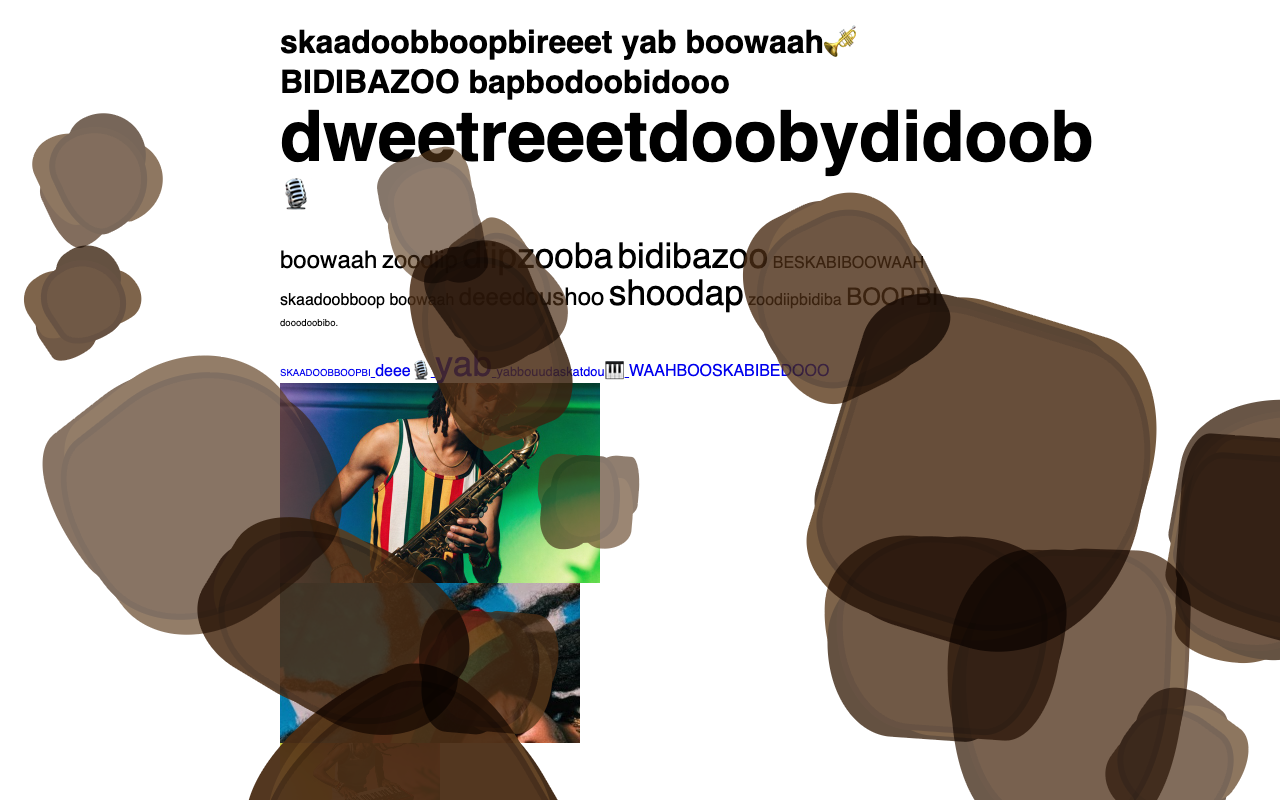
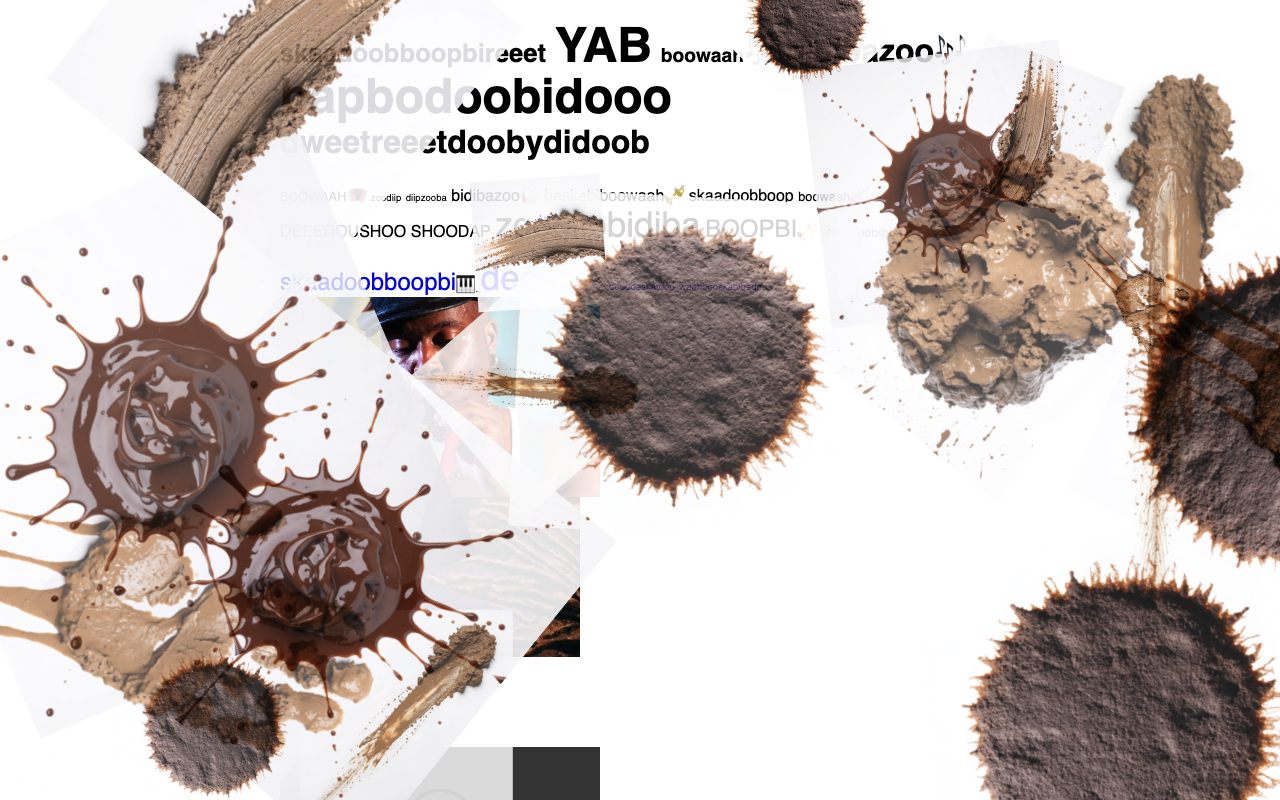
Stains: real photographic mud/poo splatter PNGs (was CSS blobs)
- 7 realistic brown mud/poo/coffee splatter images generated via recraft_v4_1
  on white bg; bundled in assets/stains/, overlaid as scattered <img> with
  mix-blend-mode:multiply so the white vanishes and only the stain shows.
- New stains-manifest.js (generated), wired into manifest + web_accessible.
- Refs folder moved out of assets/ (was going to ship + contained a screenshot).
- 35/35 tests green (added stain-integrity test).

diff --git a/src/content.js b/src/content.js
@@ -107,32 +107,35 @@
     }
   }
 
-  // ---- brown stains (top frame only; a fixed overlay) ----
+  // ---- brown stains (top frame only): real splatter PNGs scattered around ----
+  function stainURL(file) {
+    try { return chrome.runtime.getURL("assets/stains/" + file); }
+    catch (_e) { return "assets/stains/" + file; }
+  }
   function addStains() {
     if (!isTop) return;
     if (document.getElementById("scaternet-stains")) return;
+    const list = globalThis.ScaternetStainsList || [];
     const host = document.body || document.documentElement;
-    if (!host) return;
+    if (!host || list.length === 0) return;
     const c = document.createElement("div");
     c.id = "scaternet-stains";
-    const count = 12 + Math.floor(Math.random() * 10);
-    const rnd = (lo, hi) => (lo + Math.random() * (hi - lo)).toFixed(0);
+    const count = 14 + Math.floor(Math.random() * 12);
     for (let i = 0; i < count; i++) {
-      const s = document.createElement("div");
-      s.className = "scaternet-stain";
-      const size = 70 + Math.random() * 240;
-      s.style.width = size.toFixed(0) + "px";
-      s.style.height = (size * (0.6 + Math.random() * 0.7)).toFixed(0) + "px";
-      s.style.left = (Math.random() * 100).toFixed(1) + "vw";
-      s.style.top = (Math.random() * 100).toFixed(1) + "vh";
-      s.style.transform = "rotate(" + (Math.random() * 360).toFixed(0) + "deg)";
-      // Solid, not a faint wash — real mud.
-      s.style.opacity = (0.6 + Math.random() * 0.35).toFixed(2);
-      // Per-stain organic blob outline so no two mud splats look alike.
-      s.style.borderRadius =
-        rnd(30, 70) + "% " + rnd(30, 70) + "% " + rnd(30, 70) + "% " + rnd(30, 70) + "% / " +
-        rnd(30, 70) + "% " + rnd(30, 70) + "% " + rnd(30, 70) + "% " + rnd(30, 70) + "%";
-      c.appendChild(s);
+      const file = list[(Math.random() * list.length) | 0];
+      const img = document.createElement("img");
+      img.className = "scaternet-stain";
+      img.setAttribute("alt", "");
+      img.src = stainURL(file); // set before insertion so the observer never sees a swap-eligible img
+      const w = 130 + Math.random() * 380;
+      img.style.width = w.toFixed(0) + "px";
+      img.style.left = (Math.random() * 100).toFixed(1) + "vw";
+      img.style.top = (Math.random() * 100).toFixed(1) + "vh";
+      const rot = (Math.random() * 360).toFixed(0);
+      const flip = Math.random() < 0.5 ? -1 : 1;
+      img.style.transform = "translate(-40%,-40%) rotate(" + rot + "deg) scaleX(" + flip + ")";
+      img.style.opacity = (0.7 + Math.random() * 0.3).toFixed(2);
+      c.appendChild(img);
     }
     host.appendChild(c);
   }

diff --git a/src/content.css b/src/content.css
@@ -20,7 +20,7 @@ img[data-scaternet-swapped="1"] {
 .scat-size-lg { font-size: 1.5em !important; }
 .scat-size-xl { font-size: 2.2em !important; }
 
-/* --- Brown stains: solid mud spreads splattered all over the page --- */
+/* --- Brown stains: real photographic mud/poo splatter PNGs scattered around --- */
 #scaternet-stains {
   position: fixed;
   inset: 0;
@@ -28,17 +28,10 @@ img[data-scaternet-swapped="1"] {
   pointer-events: none;
   overflow: hidden;
 }
-#scaternet-stains .scaternet-stain {
+#scaternet-stains img.scaternet-stain {
   position: absolute;
-  background-color: #4a2c14; /* solid mud brown */
-  /* organic blobby outline (per-stain border-radius is overridden inline in JS) */
-  border-radius: 42% 58% 63% 37% / 45% 44% 56% 55%;
-  /* satellite splats + a darker rim = mud splatter, NOT a soft blur */
-  box-shadow:
-    inset 0 0 0 6px rgba(40, 22, 8, 0.35),
-    22px 12px 0 -8px #5b3a1a,
-    -18px 18px 0 -10px #3a220e,
-    30px -14px 0 -12px #4a2c14,
-    -26px -12px 0 -13px #5b3a1a;
+  /* multiply blends the stain into the page (and hides any white cutout fringe). */
   mix-blend-mode: multiply;
+  will-change: transform;
+  max-width: none;
 }

diff --git a/src/stains-manifest.js b/src/stains-manifest.js
@@ -1,0 +1,10 @@
+/* SCATERNET — bundled stain PNG filenames (assets/stains/*). Auto-generated by tools/build_manifests.mjs. */
+globalThis.ScaternetStainsList = [
+  "stain-01.png",
+  "stain-02.png",
+  "stain-03.png",
+  "stain-04.png",
+  "stain-05.png",
+  "stain-06.png",
+  "stain-07.png"
+];

diff --git a/assets/stains/SOURCES.md b/assets/stains/SOURCES.md
@@ -1,0 +1,5 @@
+# Bundled stain images — provenance
+Realistic brown mud/poo/coffee splatter photos generated with Higgsfield
+`recraft_v4_1` (2k) on white backgrounds; downscaled to 512px PNG. Overlaid with
+CSS mix-blend-mode:multiply so the white vanishes and only the brown stain shows.
+Owned generated assets.
